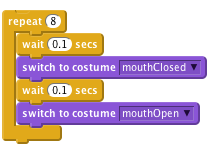
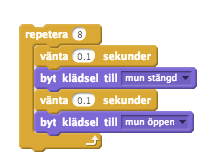
sv-SE_translations: Translated the Scratch Card 'Mouths' to Swedish.

diff --git a/sv-SE/02_scratch/01/01-04 Make a Monster - Mouths.html b/sv-SE/02_scratch/01/01-04 Make a Monster - Mouths.html
@@ -1,0 +1,94 @@
+<!DOCTYPE html>
+<html class="world" lang="sv-SE">
+  <head>
+    <meta charset="utf-8">
+    <meta name="viewport" content="width=device-width, initial-scale=1.0">
+    <meta name="google-site-verification" content="LAa8xdL-G6vOe9RSZnECSduS5m1BMiM8U2erQku5yIE" />
+    <title>Monsterfördjupningskort - Mun och tal — Code Club World Projects</title>
+    <!--[if lt IE 9]><script src="http://html5shim.googlecode.com/svn/trunk/html5.js"></script><![endif]-->
+    <link rel="stylesheet" href="../../../css/master.min.css">
+  </head>
+  <body class="index-template world">
+    <header class="header" role="banner">
+      <a class="home-link" href="../../../index.html"><img alt="" class="logo" height="100" src="../../../img/ccw_logo.png"></a>
+      <h1 class="title">Monsterfördjupningskort - Mun och tal</h1>
+      <span class="level-indicator">Nivå 4</span>
+    </header>
+    <nav class="breadcrumbs"><ul class="breadcrumbs-list"><li class="breadcrumbs-item"><a class="breadcrumbs-link" href="../../../index.html">Språk</a></li><li class="breadcrumbs-item"><a class="breadcrumbs-link" href="../../index.html">Svenska</a></li><li class="breadcrumbs-item"><a class="breadcrumbs-link" href="../index.html">Advancerad Scratch</a></li><li class="breadcrumbs-item current">Mun och tal</li></ul></nav>
+    <main class="main lesson-steps" role="main">
+    <section id="activity-checklist" class="level2 check">
+      <h2>Checklista</h2>
+      <ul>
+        <li><p>För att få ditt monster att tala, kan du använda blocket <code class="blockpurple">Säg</code></p>
+          <p><img src="a6c527dcfcfd6660ee436f754fa49b24ec6c02da.png" alt="när [mellanslag] trycks ned
+        säg [Hallå!] i (2) sekunder" /></p></li>
+        <li><p>
+          För att göra det lite mer imponerande, kan du göra så att <strong>monstrets mun öppnas och stängs</strong> medan den pratar. För att göra detta, redigera spriten som innehåller munnen - skapa en ny <code class="blockpurple">klädsel</code> som har en stängd mun(om den tidigare är öppen). Genom att byta mellan de två kan du animera att munnen öppnas och stängs.</p>
+          <p><img src="33feb6a87f20c98539dbcd1dceb8a3ab7d46db26.png" alt="repetera (8)
+          vänta (0.1) sekunder
+          byt till kostym [mun stängd]
+          vänta (0.1) sekunder
+          byt till kostym [mun öppen]
+        end" /></p></li>
+        <li><p>
+          För att aktivera dem, se till att blocket med <code class="blockpurple">säg</code> sänder ett event som det andra blocket kan reagera på.</p>
+          <p><img src="528e33a7371f994c23a404e2496945585e4d1cc5.png" alt="när [mellanslag] trycks ned
+          skicka [talar]
+          säg [Hallå!] i (2) sekunder
+
+          när jag tar emot [talar]    
+          repetera (8)
+          vänta (0.1) sekunder
+          byt till kostym [mun stängd]
+          vänta (0.1) sekunder
+          byt till kostym [mun öppen]
+        end" /></p></li>
+        <li><p>
+          För att göra detta lite mer flexibelt, använd en variabel för att kontrollera <code class="blockorange">talTiden</code> monstret säger något, använd den även för att kontrollera hur många gånger animationen reptererar.</p>
+          <p><img src="72247feb22551835387cdb221a4b62b0536470b4.png" alt="när [mellanslag] trycks ned
+          sätt [talTiden] till (2)
+          skicka [talar]
+          säg [Hallå!] i (talTiden) sekunder
+          
+          när [a] trycks ned
+          sätt [talTiden] till (4)
+          skicka [talar]
+          säg [Någonting lite längre.] i (talTiden) sekunder
+
+          när jag tar emot [talar]    
+          repetera ((talTiden) * (4))
+          vänta (0.1) sekunder
+          byt till kostym [mun stängd]
+          vänta (0.1) sekunder
+          byt till kostym [mun öppen]
+        sluta" /></p></li>
+      </ul>
+      <p><strong>(Notera hur vi multiplicerar <code class="blockorange">talTiden</code> med 4 för att säkerställa att loopen repeterar tillräckligt många gånger?)</strong></p>
+      <ul>
+        <li><p>
+          Du kan även se till att ditt monster talar genom att avända ljud i något av ljudblocken. Se bara till att importera ljuden först i <strong>Ljud</strong>fliken.</p>
+          <p><img src="22fede61f0444e7056399a43b9be67e4d363f51f.png" alt="när jag tar emot [talar]
+        spela ljudet [skriiiik]" /></p></li>
+      </ul>
+      <p>Varför inte prova att lägga till ljud till andra event? Du skulle kunna använda ett läskigt svävande ljud för ett spöke som driver runt på skärmen!</p>
+      <p>Om du har en mikrofon på din dator kan du även spela in dina egna ljud, överraska dina klubbkamrater genom att spela in ett högt MONSTERVRRRÅÅÅÅÅÅÅL!!!</p>
+    </section>
+    </main>
+    <aside class="legal-notice copyright">
+      <p>These projects are for use outside the UK only. More information is available on our website at <a href="http://www.codeclub.org.uk/">http://www.codeclub.org.uk/</a>. This coursework is developed in the open on GitHub (<a href="https://github.com/CodeClub/">https://github.com/CodeClub</a>), come and join us!</p>
+      <p>&copy; 2014 Code Club. This work is licensed under a <a rel="license" href="http://creativecommons.org/licenses/by-nc-sa/4.0/">BY-NC-SA 4.0 International License</a>.</p>
+    </aside>
+    <!-- Google Analytics -->
+    <script type="text/javascript">
+    var _gaq = _gaq || [];
+    _gaq.push(['_setAccount', 'UA-30750176-5']);
+    _gaq.push(['_setDomainName', 'projects.codeclubworld.org']);
+    _gaq.push(['_trackPageview']);
+    (function() {
+    var ga = document.createElement('script'); ga.type = 'text/javascript'; ga.async = true;
+    ga.src = ('https:' == document.location.protocol ? 'https://ssl' : 'http://www') + '.google-analytics.com/ga.js';
+    var s = document.getElementsByTagName('script')[0]; s.parentNode.insertBefore(ga, s);
+    })();
+    </script>
+  </body>
+</html>

diff --git a/sv-SE/02_scratch/index.html b/sv-SE/02_scratch/index.html
@@ -68,7 +68,7 @@
         </li>
         <li class="files-item">
           <a class="files-link extra" href="01/01-04 Make a Monster - Mouths.html">
-            Munnar och pratande
+            Mun och tal
           </a>
         </li>
         <li class="files-item">

diff --git a/sv-SE/02_scratch/01/01 Make a Monster - Notes.html b/sv-SE/02_scratch/01/01 Make a Monster - Notes.html
@@ -50,7 +50,7 @@
 <li>Ögon<br /></li>
 <li>Ledad arm<br /></li>
 <li>Ben<br /></li>
-<li>Munnar och pratande<br /></li>
+<li>Mun och tal<br /></li>
 <li>Rörelser<br /></li>
 <li>Tentakler<br /></li>
 <li>Hjul</li><br />

diff --git a/sv-SE/02_scratch/01/01 Make a Monster.html b/sv-SE/02_scratch/01/01 Make a Monster.html
@@ -60,7 +60,7 @@
 <li>Ben<br /></li>
 <li>Hjul<br /></li>
 <li>Ledad arm<br /></li>
-<li>Munnar och pratande<br /></li>
+<li>Mun och tal<br /></li>
 <li>Rörelser<br /></li>
 <li>Tentakler<br /></li>
 <li>Ögon</li>
